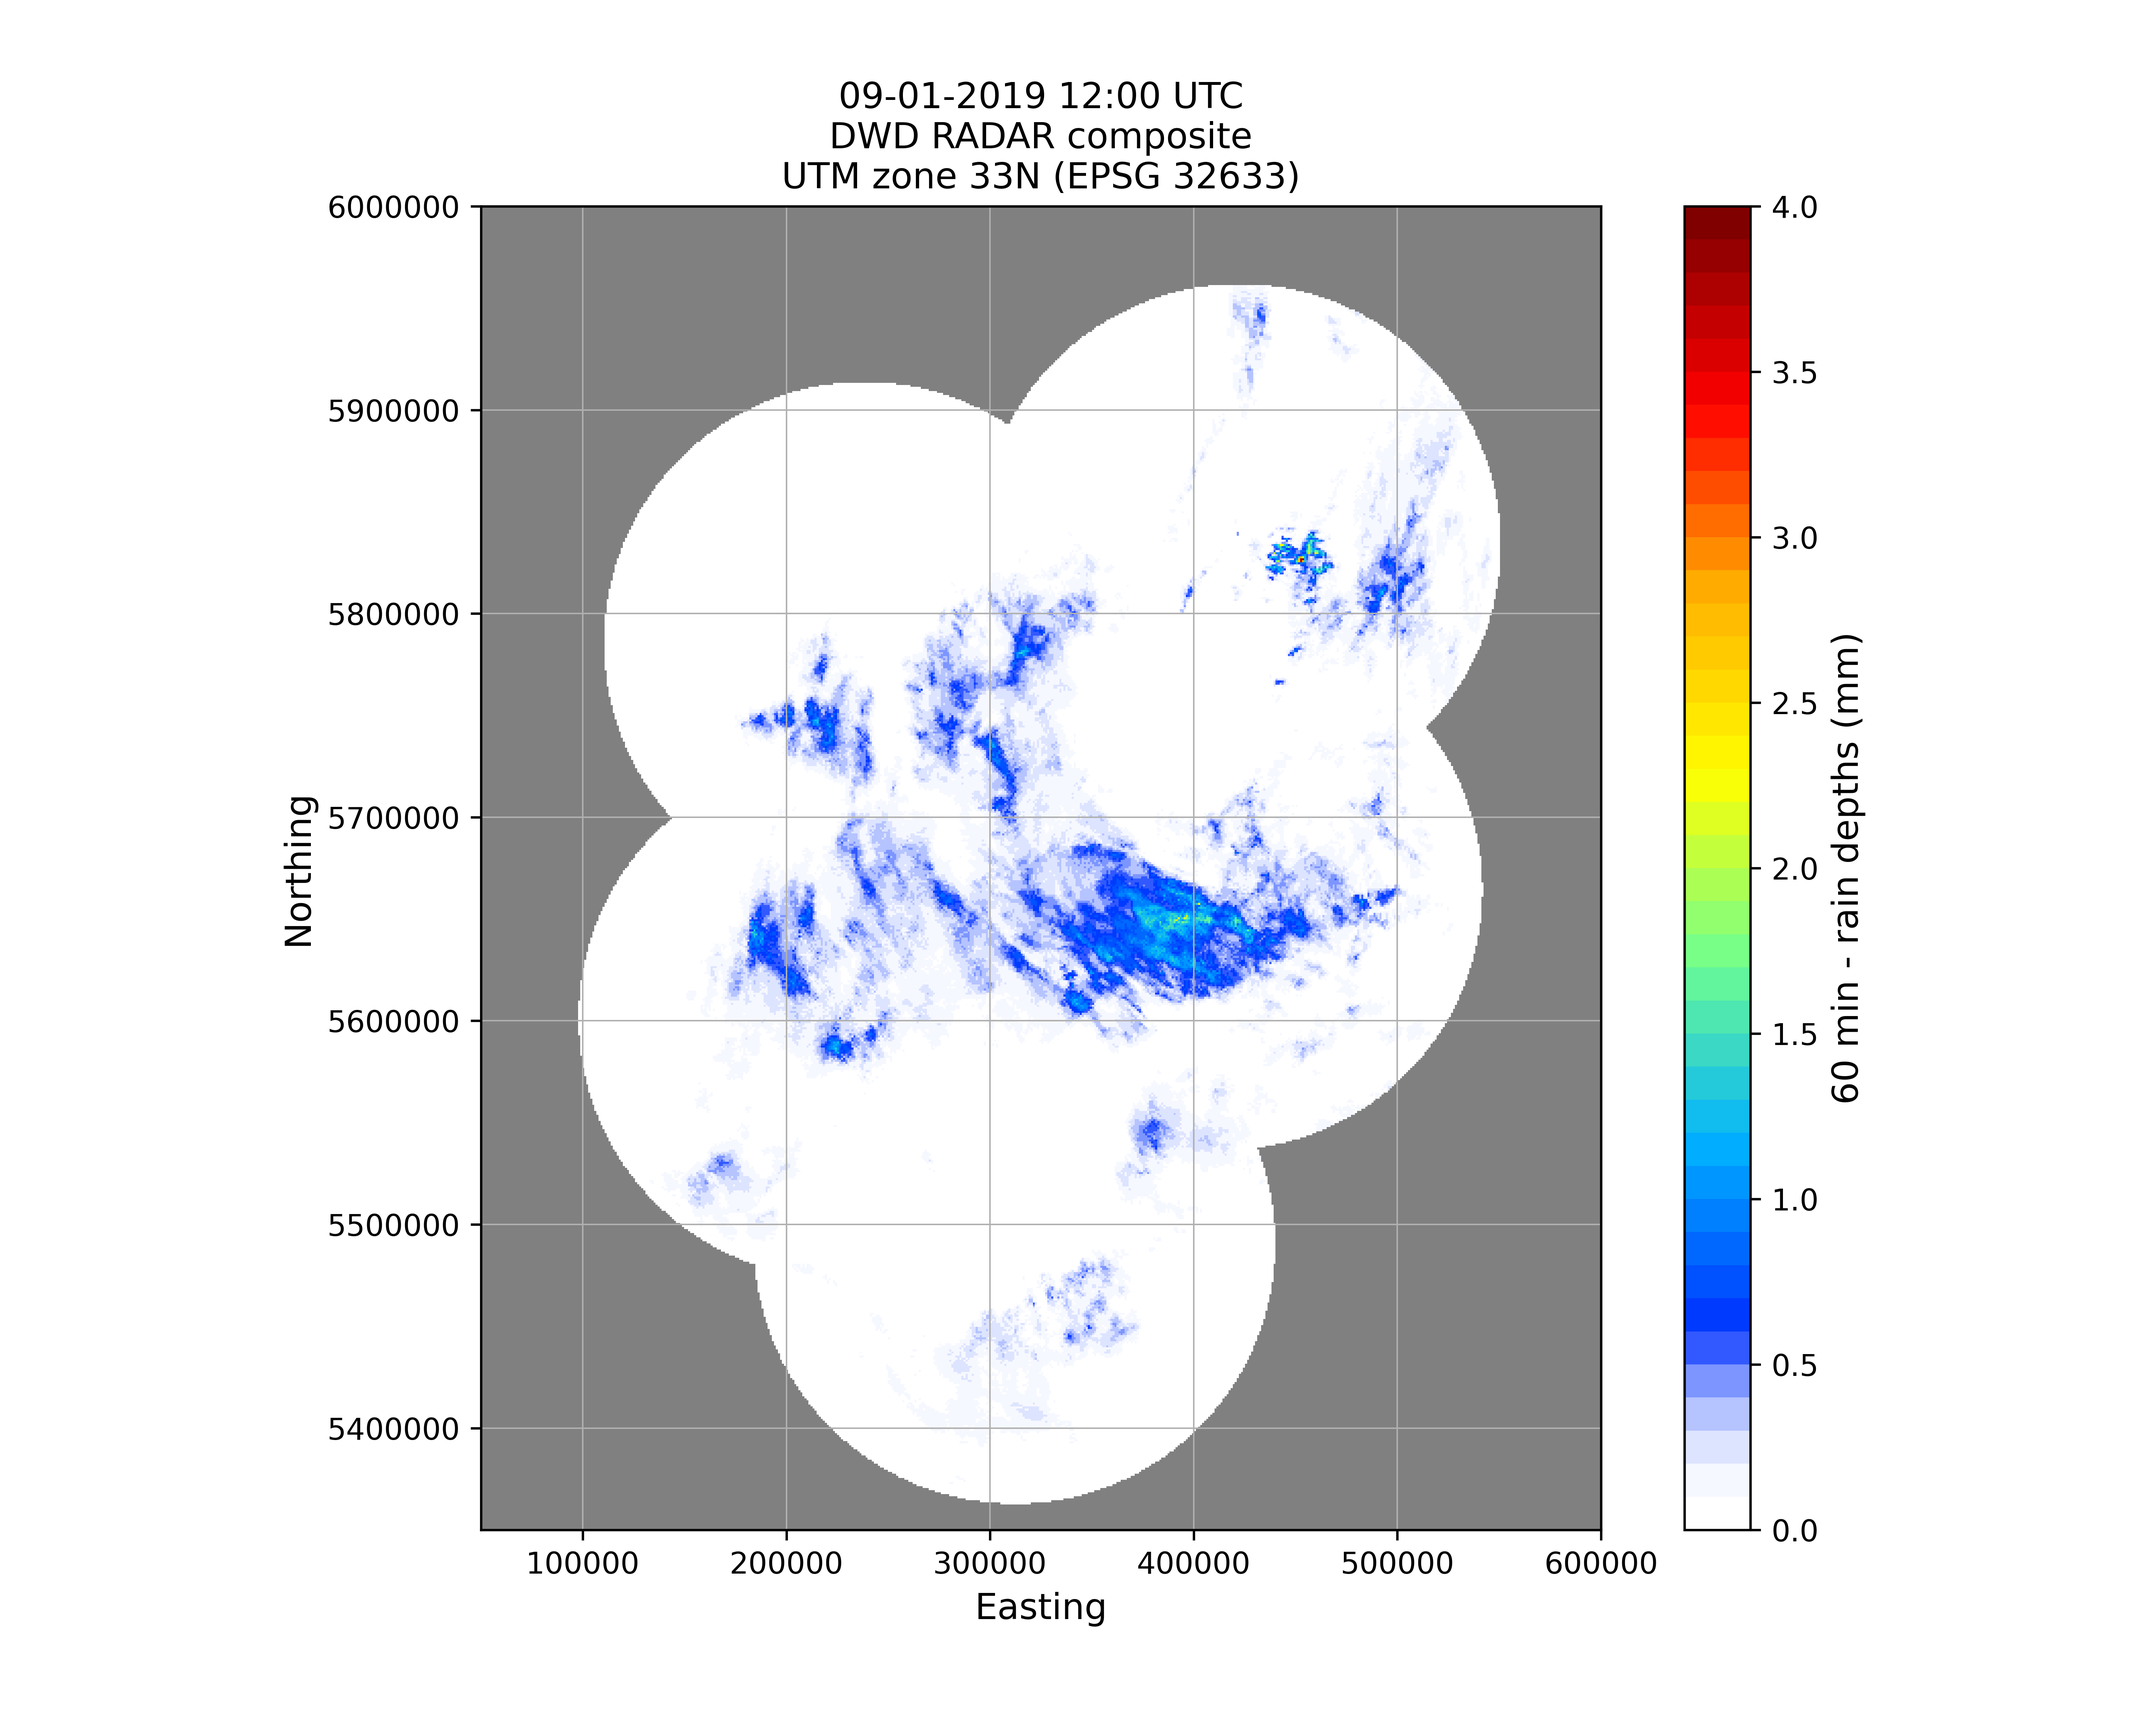
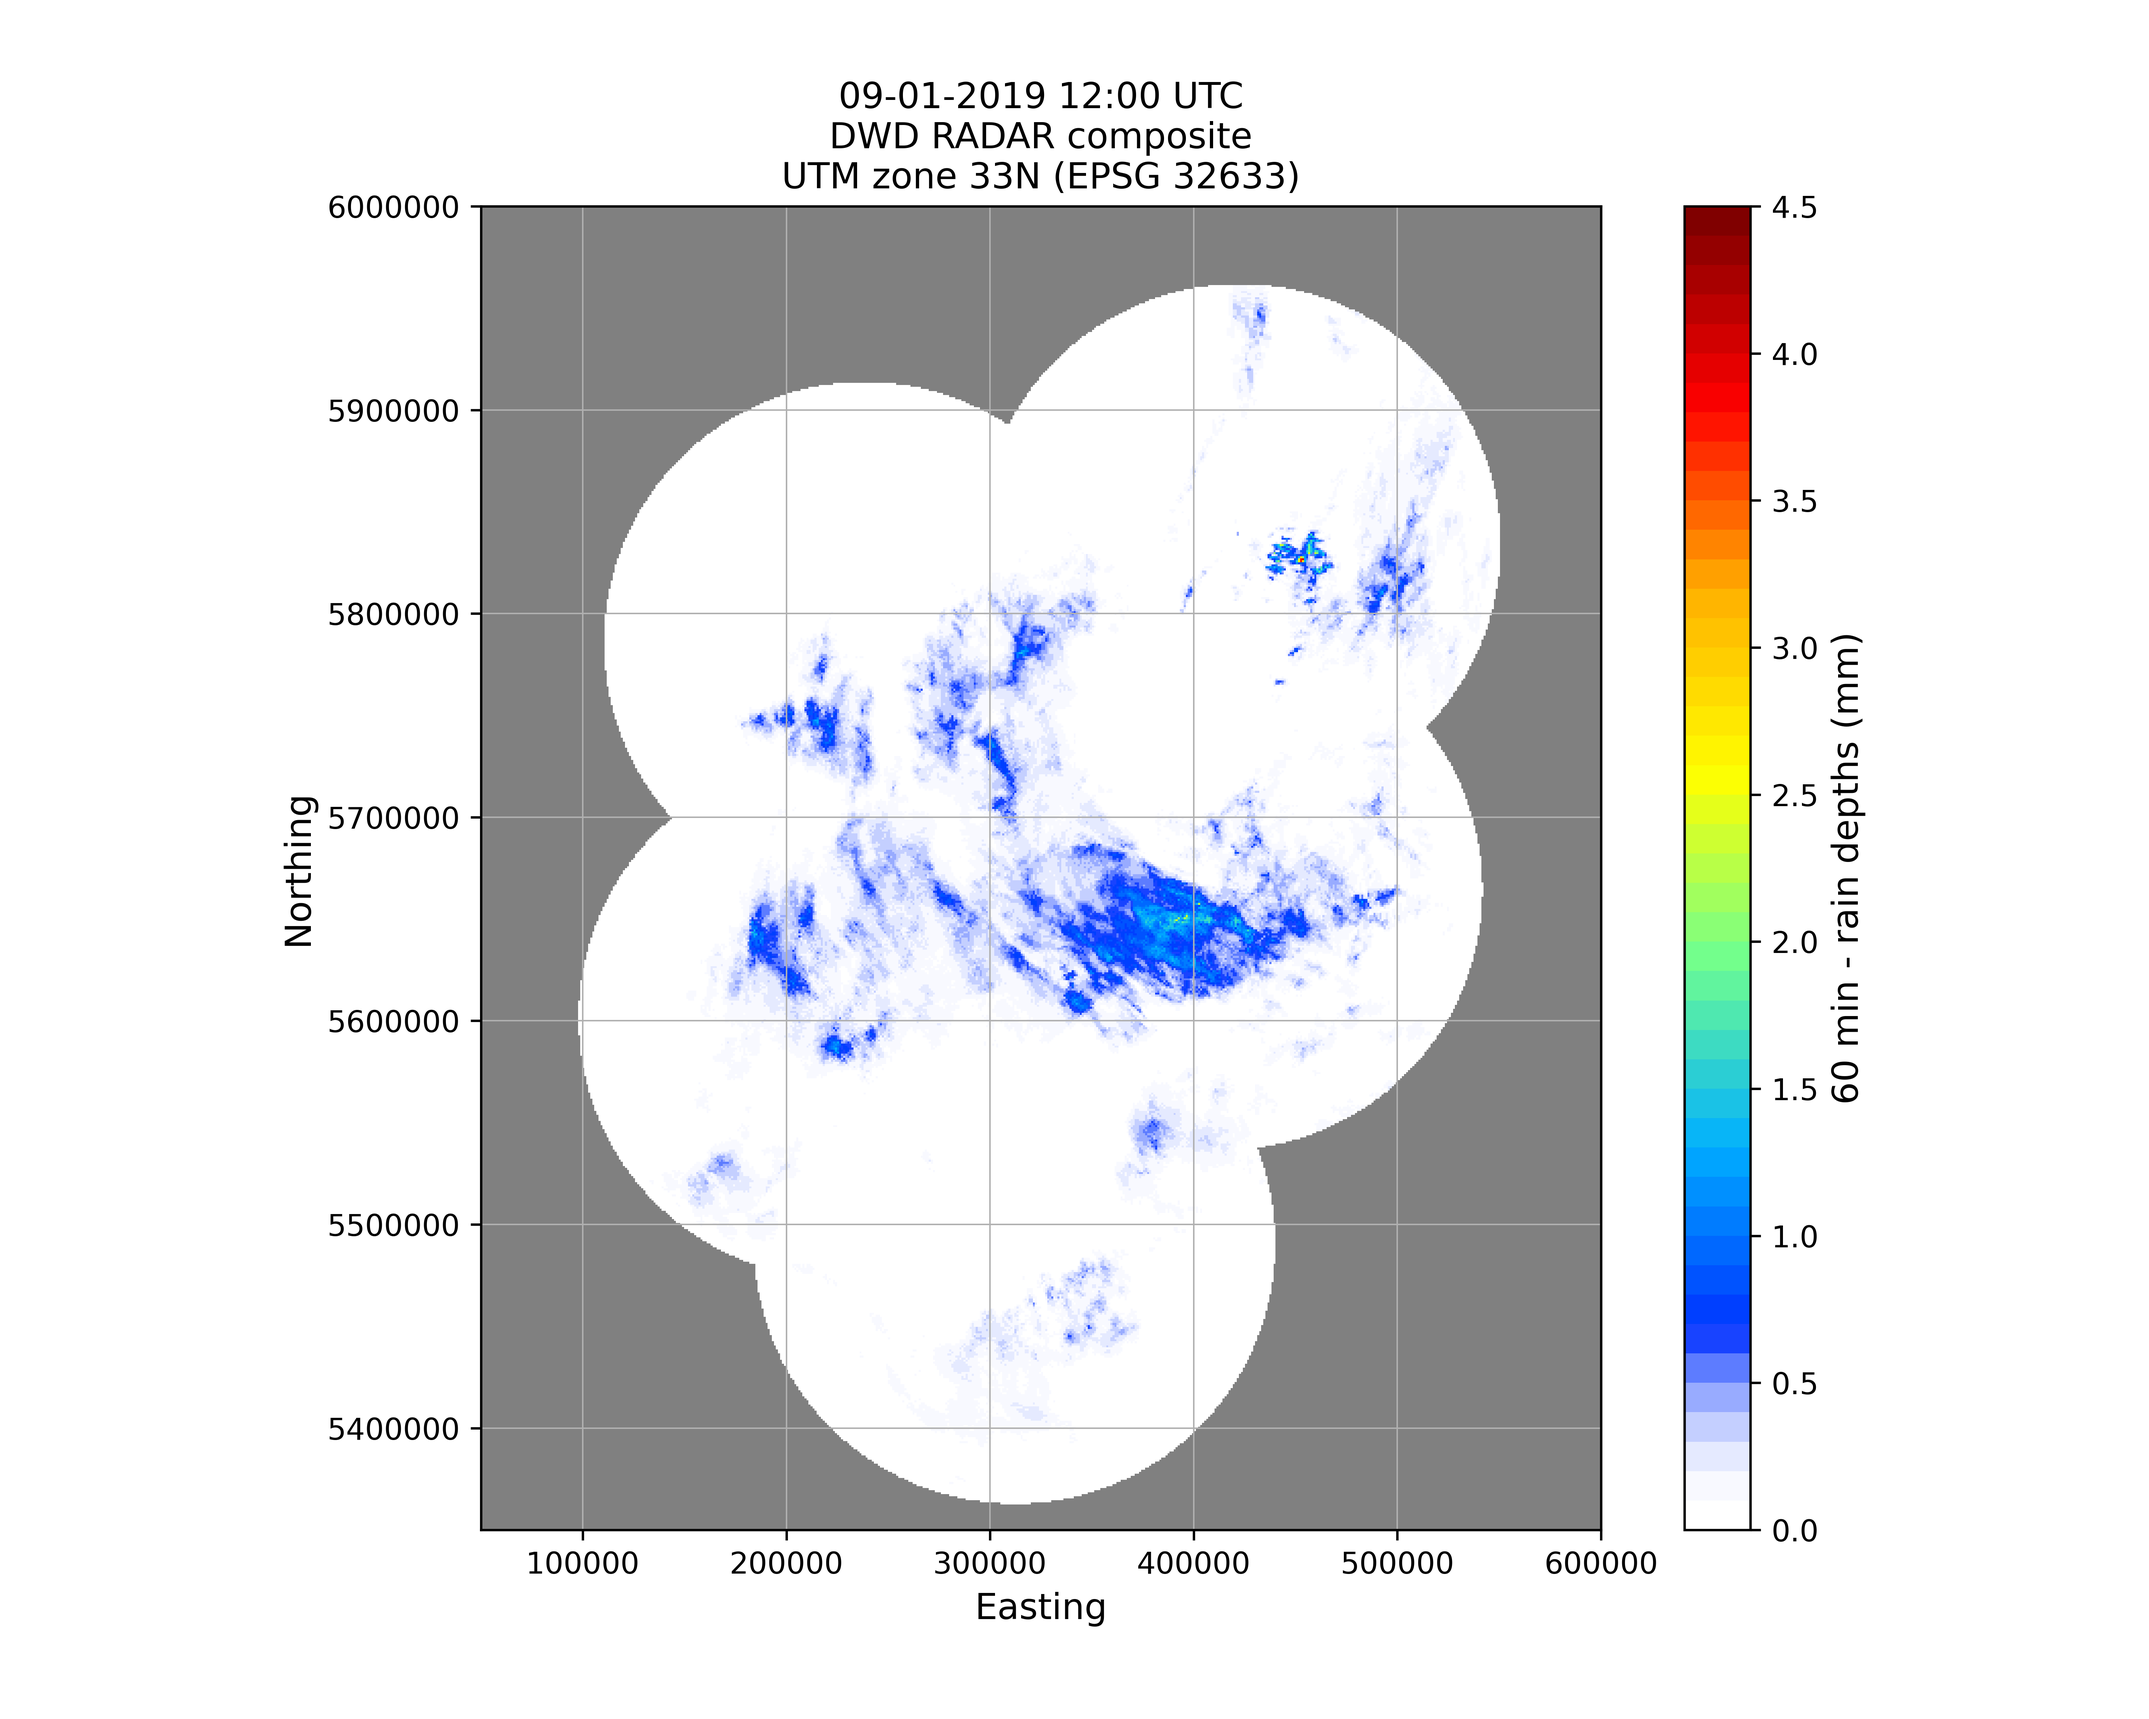
Change colorbar to 45 steps.

diff --git a/code/colorbar.py b/code/colorbar.py
@@ -6,5 +6,5 @@ colors = [(1,1,1,0), (0,0.19,1), (0,0.69,1), (0.44,1,0.56), (1,1,0), (1,0.69,0),
 colors2 = [(1,1,1,0), (1,0,0)]
 
 # Create colormap with 150 bins: few bins > discrete colorbar
-cm = LinearSegmentedColormap.from_list("new_jet", colors, N=40) 
+cm = LinearSegmentedColormap.from_list("new_jet", colors, N=45) 
 cm_binary = LinearSegmentedColormap.from_list("new_jet", colors2, N=2) 
